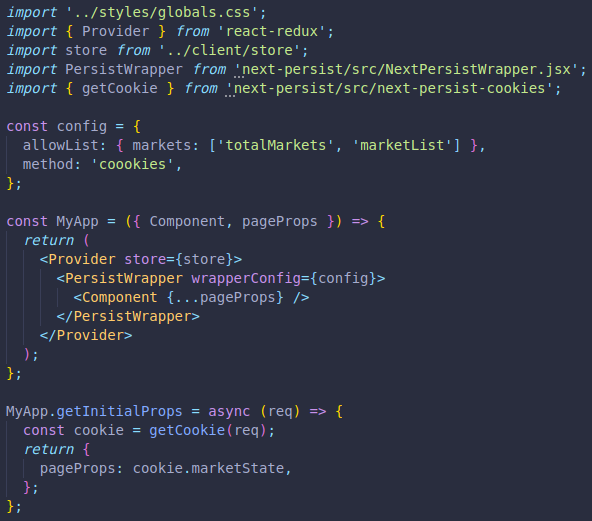
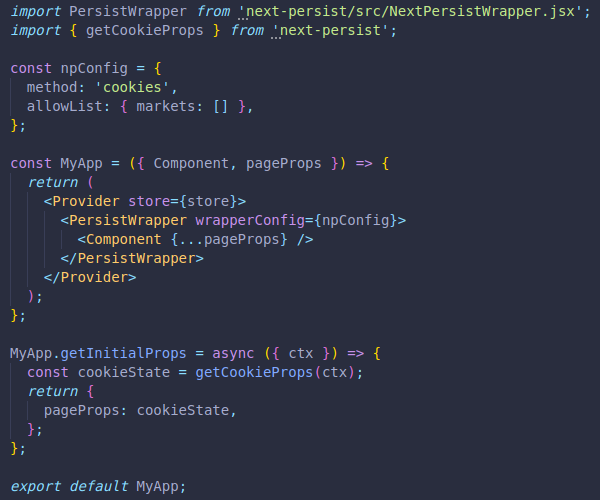
updated readme

diff --git a/README.md b/README.md
@@ -70,7 +70,7 @@ Well now you can! next-persist provides a simple solution for your dynamic, isom
 
 ## Getting Started
 
-To add `<NextPersistWrapper />`, `getStorage`, and `getCookie` to your project, follow these steps.
+To add `<NextPersistWrapper />`, `getLocalStore`, and `getCookieStore` to your project, follow these steps.
 
 ---
 
@@ -101,20 +101,20 @@ To add `<NextPersistWrapper />`, `getStorage`, and `getCookie` to your project, 
     import PersistWrapper from 'next-persist/src/NextPersistWrapper';
     ```
 3.  If utilizing localStorage to persist client-state:<br>
-    Import `{ getStorage }` into your reducer(s) you plan to persist.
+    Import `{ getLocalStore }` into your reducer(s) you plan to persist.
     ```
     // yourReducer.js
-    import { getStorage } from 'next-persist'
+    import { getLocalStore } from 'next-persist'
     ```
 4.  If utilizing cookies to persist client-state:<br>
-    Import `{ getCookie }` into your frontend at the top level of your Next.js app as well as into any reducer(s) you plan to persist.
+    Import `{ getCookieProps }` into your frontend at the top level of your Next.js app as well as importing `{ getCookieStore }` into any reducer(s) you plan to persist.
 
     ```
     // _app.js
-    import { getCookie } from 'next-persist/src/next-persist-cookies'
+    import { getCookieProps } from 'next-persist'
 
     // yourReducer.js
-    import { getCookie } from 'next-persist/src/next-persist-cookies'
+    import { getCookieStore } from 'next-persist'
     ```
 
 ---
@@ -176,11 +176,11 @@ The `allowList` key can be setup to allow only certain reducers to store only ce
 
 ### Reducer
 
-In each reducer file we need to import `getStorage` from `'next-persist'` or or `getCookies` from `'next-persist/src/next-persist-cookies'`.
+In each reducer file we need to import `getLocalStore` or `getCookieStore` from `'next-persist'`.
 
-Declare a constant and assign it the value of the evaluated result of calling `getStorage` or `getCookies` method.
+Declare a constant and assign it the value of the evaluated result of calling `getLocalStore` or `getCookieStore` method.
 
-`getStorage` or `getCookies` takes two arguments:
+`getLocalStore` or `getCookieStore` takes two arguments:
 
 - a string: the reducer key that is saved in storage
 - an object: the initial state declared in the reducer file
@@ -191,9 +191,9 @@ Pass in the newly declared constant into the reducer as a default parameter for 
   Example:
 
   import * as types from '../constants/actionTypes';
-  import { getStorage } from 'next-persist';
+  import { getLocalStore } from 'next-persist';
   // or
-  // import { getCookies } from 'next-persist/src/next-persist-cookies'
+  // import { getCookieStore } from 'next-persist'
 
   const initialState = {
     // initialState goes here
@@ -202,9 +202,9 @@ Pass in the newly declared constant into the reducer as a default parameter for 
     stateItemThree: 'foo',
   };
 
-  const persistedState = getStorage('reducerOne', initialState);
+  const persistedState = getLocalStore('reducerOne', initialState);
   // or
-  // const persistedState = getCookies('reducerOne', initialState);
+  // const persistedState = getCookieStore('reducerOne', initialState);
 
 
   const firstReducer = (state = persistedState, action) => {
@@ -224,13 +224,13 @@ Pass in the newly declared constant into the reducer as a default parameter for 
 
 Utilizing the cookie storage method offers the benefit of utilizing client state with `getInitialProps`. However it cannot be used to store large amounts of data due to the limits on cookie size.
 
-In this example we invoke `getCookie` in `getInitialProps` and it will return back an object holding all the persisted state values, saved under the key of their reducer name.
+In this example we invoke `getCookieProps` in `getInitialProps` and it will return back an object holding all the persisted state values, saved under the key of their reducer name.
 
 ```
   Example:
 
-  MyApp.getInitialProps = async (ctx) => {
-    const cookieState = getCookie(ctx);
+  MyApp.getInitialProps = async ({ ctx }) => {
+    const cookieState = getCookieProps(ctx);
     return {
       pageProps: cookieState,
     };
